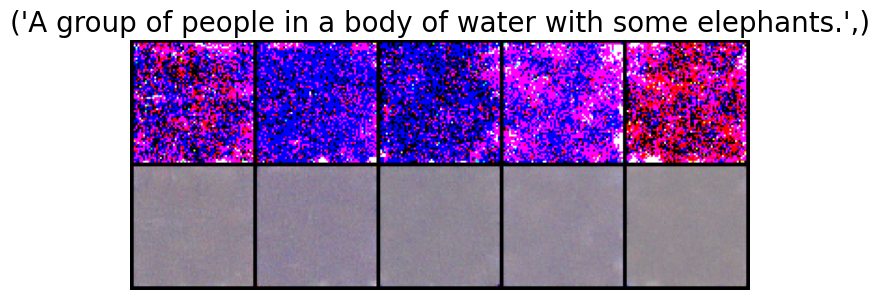
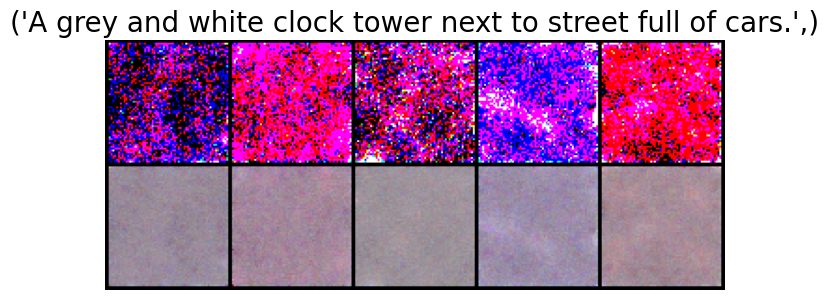
brer

diff --git a/factories.py b/factories.py
@@ -240,6 +240,8 @@ class UNet_conditional(nn.Module):
             context_dim = num_classes
         self.device = device
         self.time_dim = time_dim
+
+
         self.inc = DoubleConv(c_in, 64)
         self.down1 = Down(64, 128)
         self.sa1 = SelfAttention(128, 32)
@@ -295,12 +297,12 @@ class UNet_conditional(nn.Module):
             attn_y = y[:,:self.num_classes]
             attn_y = self.label_crossattn_emb(attn_y)
 
-            y = y[:,:self.num_classes]
+            # y = y[:,:self.num_classes]
 
-            y = self.label_emb(y)
+            # y = self.label_emb(y)
 
 
-            t += y
+            # t += y
 
         x1 = self.inc(x)
 
